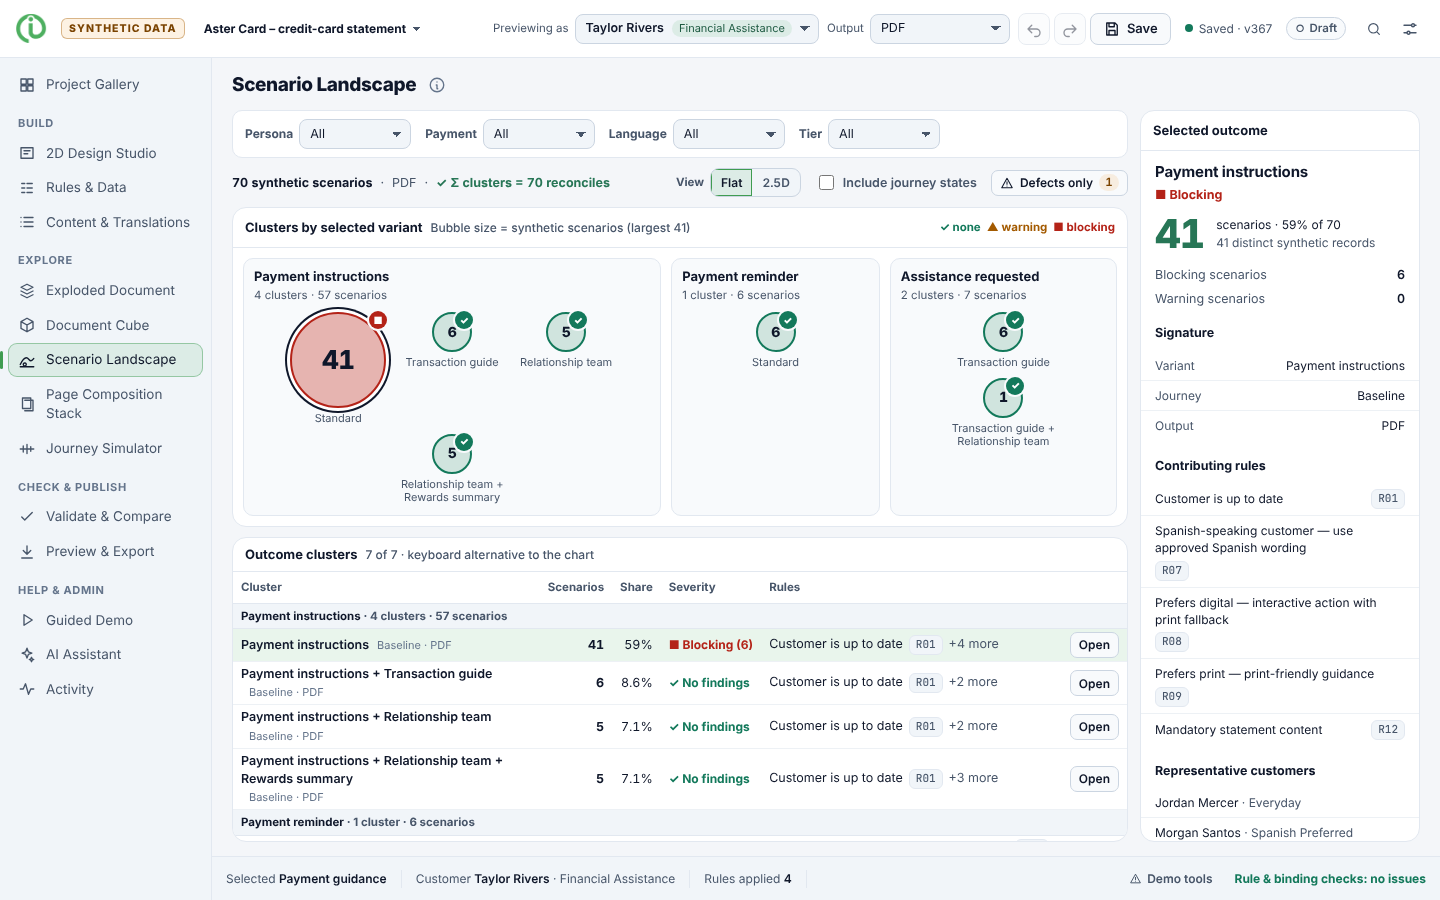
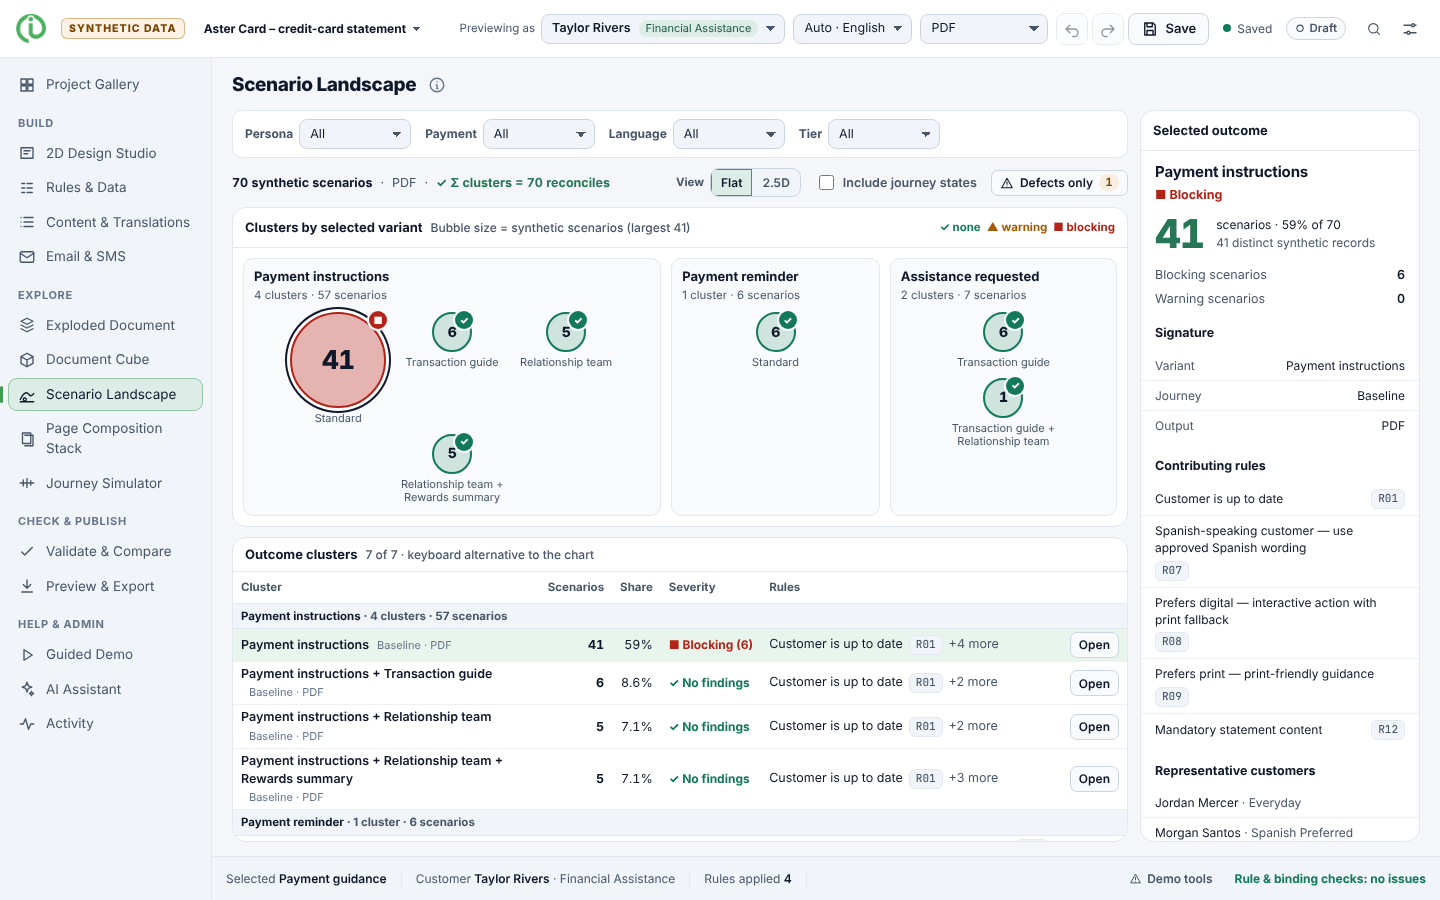
v0.5: languages, AI first-pass translation, Email & SMS editing, HTML web experience, cross-customer blocker list
Approved scope changes D55-D63. Every customer-visible text is translatable; 47 languages can be added; a top-bar
Language selector switches the previewed document; previews show unapproved drafts as marked drafts while clean
exports use approved text only. AI translation returns drafts for human approval (live AI not exercised: no key;
tested with a stand-in; bundled Spanish sample drafts for the sample projects). New Email & SMS screen. Interactive
HTML rebuilt as a web experience. 139 unit tests, 127 browser tests, build, pack checks and app verifier pass.

Claude-Session: https://claude.ai/code/session_01CZxPx5swwtrMXcm95kd1oH

Changed region(s): [[0.0, 0.28, 0.125, 0.8089], [0.3438, 0.0, 0.625, 0.0622], [0.75, 0.0, 0.875, 0.0622]]

diff --git a/reports/BUILD_PROGRESS.md b/reports/BUILD_PROGRESS.md
@@ -22,7 +22,7 @@ Last full gate: `./scripts/verify-all.sh --app` → exit 0. Its log is `reports/
 | `verify_app.py` | 18/18 |
 | Lint | Clean |
 | Unit tests | 139/139 |
-| Browser tests | 91/91 (49 acceptance/pack + 29 v0.2/v0.3 feature tests + 13 v0.4 UX tests) |
+| Browser tests | 127/127 (49 acceptance/pack + 29 v0.2/v0.3 feature tests + 13 v0.4 UX tests + 36 v0.5 tests: blockers 3, HTML web 18, translations 6, Email & SMS 9) |
 | Build | OK |
 
 ## v0.2 additions (all verified by the tests above)
@@ -72,6 +72,7 @@ Last full gate: `./scripts/verify-all.sh --app` → exit 0. Its log is `reports/
 - **Interactive HTML (D62):** web-style structure and interactions; device frames in the studio.
 - **Cross-customer blocker list (D55):** *All customers* view in Validate & Compare.
 - **Exploded Document:** states that versions are the same for every output and shows the document language.
+- **First download:** 486 kB → 525 kB (160 kB → 172 kB compressed): the language table and wording catalogue load with the shell.
 
 ## Not verified / open
 
